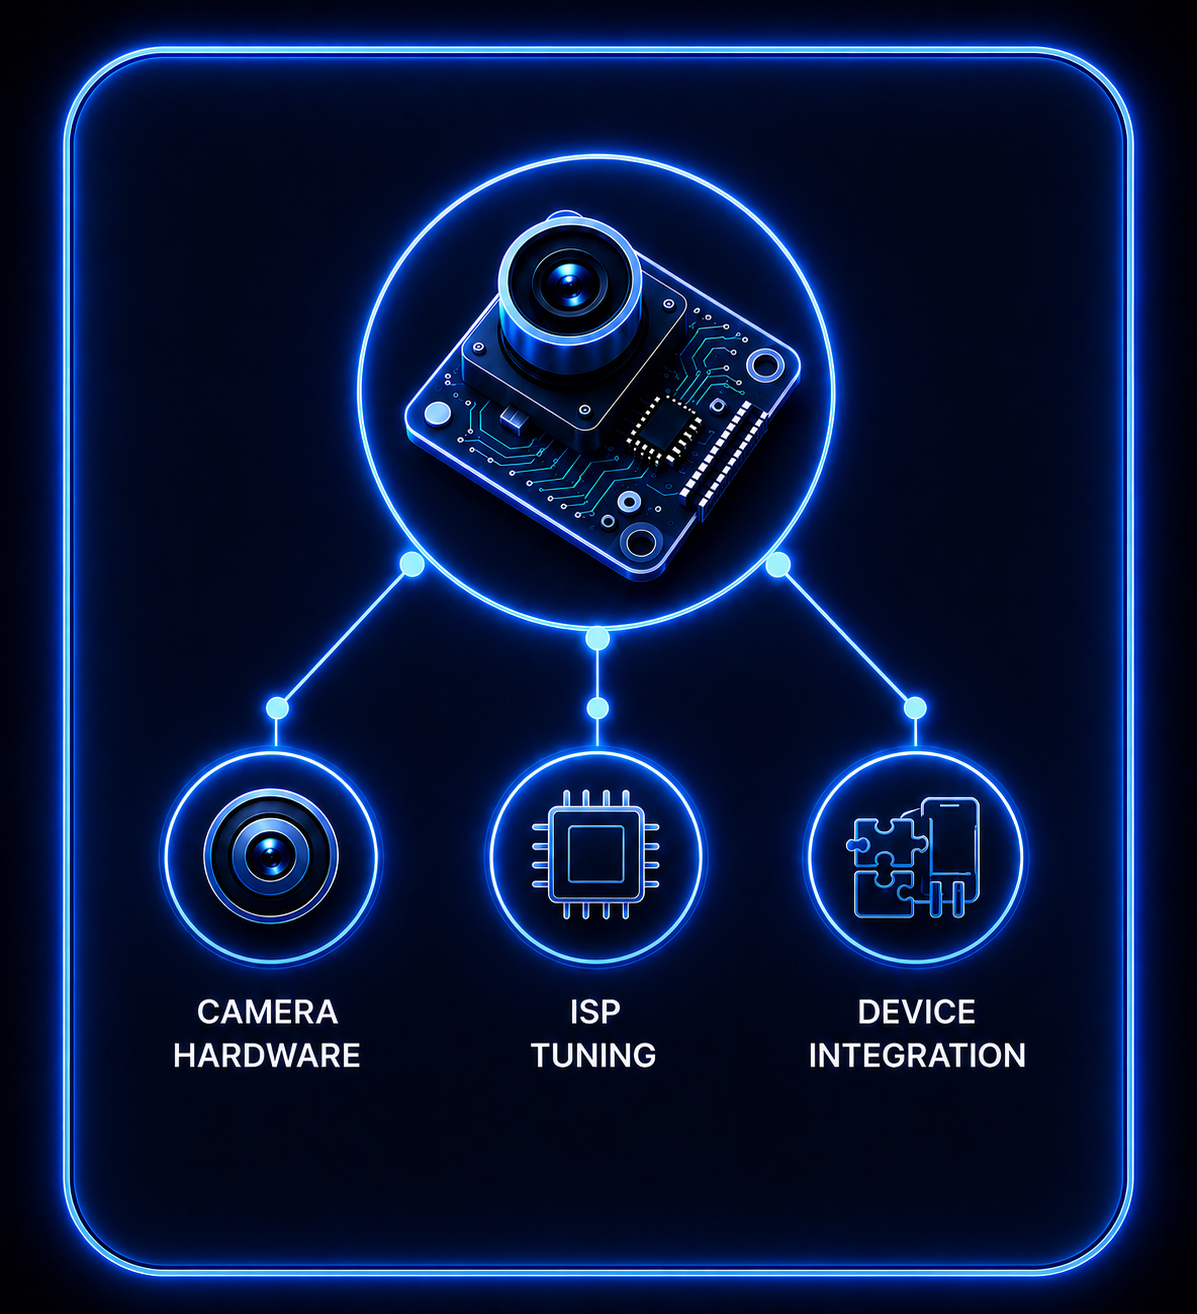
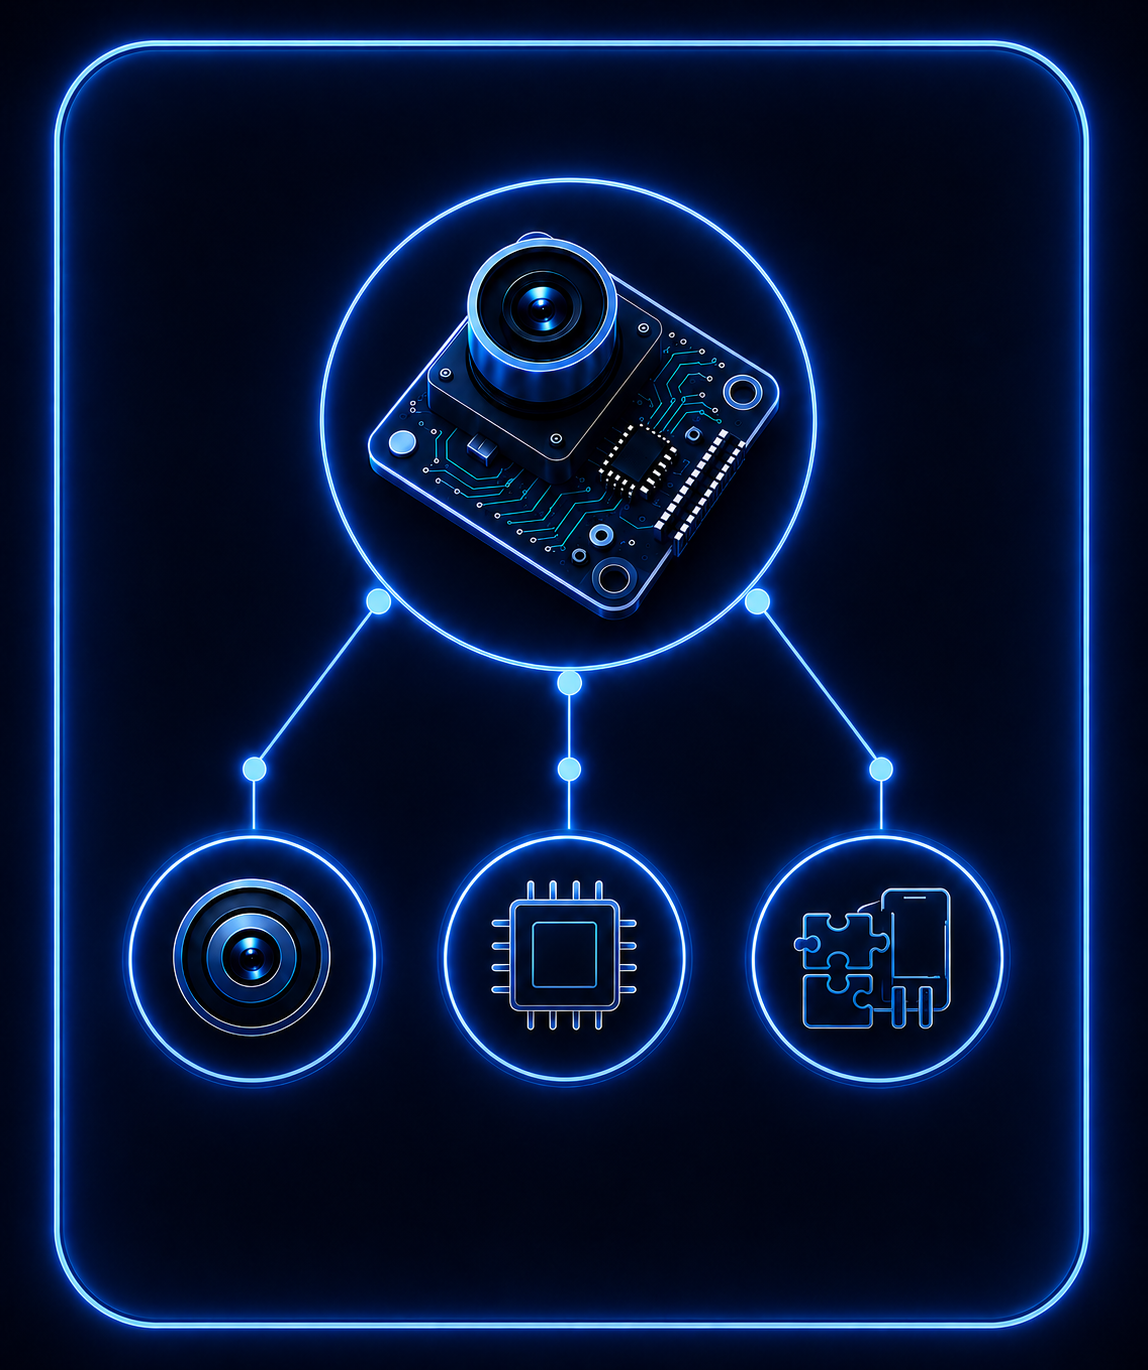
merged imedghardware into product page

Changed region(s): [[0.0305, 0.0, 0.9756, 0.9985], [0.2744, 0.468, 0.3049, 0.4992]]

diff --git a/src/components/imedge/ImedgeCapabilitiesSection.tsx b/src/components/imedge/ImedgeCapabilitiesSection.tsx
@@ -4,7 +4,7 @@ import { IMEDGE_CAPABILITIES } from "./imedgeData";
 import imedgeHardwareImg from "../../assets/images/Imedgehardware1.svg";
 import styles from "./imedgeCapabilitiesSection.module.scss";
 
-const ImedgeCapabilitiesSection = () => {
+const ImedgeCapabilitiesSection = ({ embedded = false }: { embedded?: boolean }) => {
   const copyRef = useRef<HTMLDivElement>(null);
   const mediaRef = useRef<HTMLDivElement>(null);
 
@@ -18,28 +18,30 @@ const ImedgeCapabilitiesSection = () => {
 
   return (
     <section
-      className={styles.section}
+      className={`${styles.section} ${embedded ? styles.sectionEmbedded : ""}`}
       aria-label="Imedge hardware capabilities"
     >
       <div className={styles.inner}>
         <div className={styles.split}>
           <div className={styles.content}>
-            <header className={styles.header}>
-              <span className={styles.kicker}>Hardware platform</span>
-              <h2 className={styles.title}>
-                Real-time AI vision hardware for the edge
-              </h2>
-              <p className={styles.lead}>
-                The fastest and most reliable way to realise your Edge AI Vision
-                application lies in building a system where camera design and
-                calibration. AI model tuning for Edge Processor and Intelligence
-                layer are vertically integrated. Imedge™ platform accomplishes
-                this goal by integrating high-performance computer vision
-                directly to the source of data — enabling instant insights,
-                uncompromising privacy, and split-second decision-making without
-                cloud latency.
-              </p>
-            </header>
+            {!embedded && (
+              <header className={styles.header}>
+                <span className={styles.kicker}>Hardware platform</span>
+                <h2 className={styles.title}>
+                  Real-time AI vision hardware for the edge
+                </h2>
+                <p className={styles.lead}>
+                  The fastest and most reliable way to realise your Edge AI Vision
+                  application lies in building a system where camera design and
+                  calibration. AI model tuning for Edge Processor and Intelligence
+                  layer are vertically integrated. Imedge™ platform accomplishes
+                  this goal by integrating high-performance computer vision
+                  directly to the source of data — enabling instant insights,
+                  uncompromising privacy, and split-second decision-making without
+                  cloud latency.
+                </p>
+              </header>
+            )}
 
             <div ref={copyRef} className={styles.capabilities}>
               {IMEDGE_CAPABILITIES.map((item) => (

diff --git a/src/components/imedge/ImedgeSpecsSection.tsx b/src/components/imedge/ImedgeSpecsSection.tsx
@@ -3,24 +3,30 @@ import { useScrollReveal } from "../../hooks/useScrollReveal";
 import { IMEDGE_SPECS } from "./imedgeData";
 import styles from "./imedgeSpecsSection.module.scss";
 
-const ImedgeSpecsSection = () => {
+const ImedgeSpecsSection = ({ embedded = false }: { embedded?: boolean }) => {
   const sectionRef = useRef<HTMLElement>(null);
   useScrollReveal(sectionRef, { variant: "fadeUp", y: 24 });
 
   return (
     <section
       ref={sectionRef}
-      className={styles.section}
+      className={`${styles.section} ${embedded ? styles.sectionEmbedded : ""}`}
       aria-label="Imedge reference platform specifications"
     >
       <div className={styles.inner}>
         <header className={styles.header}>
-          <span className={styles.kicker}>Specifications</span>
-          <h2 className={styles.title}>Reference platform overview</h2>
-          <p className={styles.lead}>
-            A production-ready edge vision reference built for automotive-grade
-            reliability in two-wheeler and industrial environments.
-          </p>
+          {!embedded && <span className={styles.kicker}>Specifications</span>}
+          {embedded ? (
+            <h3 className={styles.title}>Reference platform overview</h3>
+          ) : (
+            <h2 className={styles.title}>Reference platform overview</h2>
+          )}
+          {!embedded && (
+            <p className={styles.lead}>
+              A production-ready edge vision reference built for automotive-grade
+              reliability in two-wheeler and industrial environments.
+            </p>
+          )}
         </header>
 
         <div className={styles.table}>

diff --git a/src/components/product/ImedgeProductSection.tsx b/src/components/product/ImedgeProductSection.tsx
@@ -1,0 +1,41 @@
+import { useRef } from "react";
+import { useScrollReveal } from "../../hooks/useScrollReveal";
+import ImedgeCapabilitiesSection from "../imedge/ImedgeCapabilitiesSection";
+import ImedgeSpecsSection from "../imedge/ImedgeSpecsSection";
+import { IMEDGE_INTRO } from "../imedge/imedgeData";
+import styles from "./productLineSection.module.scss";
+
+type ImedgeProductSectionProps = {
+  index: number;
+};
+
+const ImedgeProductSection = ({ index }: ImedgeProductSectionProps) => {
+  const sectionRef = useRef<HTMLElement>(null);
+
+  useScrollReveal(sectionRef, { variant: "fadeUp", y: 24, delay: index * 0.05 });
+
+  return (
+    <section
+      ref={sectionRef}
+      id="imedge"
+      className={styles.section}
+      aria-label="Imedge hardware platform"
+    >
+      <div className={styles.inner}>
+        <div className={styles.header}>
+          <div className={styles.meta}>
+            <span className={styles.index}>{String(index + 1).padStart(2, "0")}</span>
+          </div>
+          <h2 className={styles.name}>Imedge® Hardware Platform</h2>
+          <p className={styles.tagline}>{IMEDGE_INTRO.tagline}</p>
+          <p className={styles.description}>{IMEDGE_INTRO.description}</p>
+        </div>
+
+        <ImedgeCapabilitiesSection embedded />
+        <ImedgeSpecsSection embedded />
+      </div>
+    </section>
+  );
+};
+
+export default ImedgeProductSection;

diff --git a/src/components/product/productData.ts b/src/components/product/productData.ts
@@ -6,7 +6,7 @@ import detectionImg from "../../assets/images/forwardcollision.png";
 import detection1Img from "../../assets/images/detection1.png";
 import detection2Img from "../../assets/images/detection2.png";
 import heroImg from "../../assets/images/product.png";
-import arasDemoVideo from "../../assets/videos/aras.mov";
+import dmsDemoVideo from "../../assets/videos/aras.mov";
 
 export const PRODUCT_SAFETY_CARDS = [
   {
@@ -165,7 +165,7 @@ export const PRODUCT_LINES: ProductLine[] = [
         image: detectionImg,
         imageAlt:
           "On-road ARAS perception demo with real-time detection overlays",
-        video: arasDemoVideo,
+        href: "/videos",
       },
       {
         id: "helmet-detection",
@@ -189,7 +189,7 @@ export const PRODUCT_LINES: ProductLine[] = [
         status: "available",
         image: detection1Img,
         imageAlt: "Driver monitoring demo with captured video",
-        href: "/videos",
+        video: dmsDemoVideo,
       },
       {
         id: "occupant-dms",

diff --git a/src/components/product/ProductHeroSection.tsx b/src/components/product/ProductHeroSection.tsx
@@ -55,14 +55,12 @@ const ProductHeroSection = () => {
       <div className={styles.overlay} aria-hidden="true" />
 
       <div className={styles.inner}>
-        <div className={styles.badge}>Perceiva™ ARAS Platform</div>
-        <h1 className={styles.heading}>
-          Advanced AI technology for safer, smarter riding.
-        </h1>
+        <div className={styles.badge}>Product</div>
+        <h1 className={styles.heading}>Edge-native AI for smarter system</h1>
         <p className={styles.subtitle}>
           {/* Enabling OEMs and cluster makers to unlock all levels of two-wheeler rider assistance at
           scale. */}
-          Edge-native AI for smarter system through sensor fusion
+          Through Sensor Fusion
         </p>
         <a className={styles.cta} href="/contact">
           <span>Schedule a demo</span>

diff --git a/src/pages/product/Product.tsx b/src/pages/product/Product.tsx
@@ -6,6 +6,7 @@ import ProductLineSection from "../../components/product/ProductLineSection";
 // import ProductFeatureShowcase from "../../components/product/ProductFeatureShowcase";
 // import ProductDeploymentSection from "../../components/product/ProductDeploymentSection";
 import ProductCtaSection from "../../components/product/ProductCtaSection";
+import ImedgeProductSection from "../../components/product/ImedgeProductSection";
 import { useHashScroll } from "../../hooks/useHashScroll";
 import {
   PRODUCT_LINES,
@@ -22,6 +23,8 @@ const Product = () => {
       {PRODUCT_LINES.map((line, index) => (
         <ProductLineSection key={line.id} line={line} index={index} />
       ))}
+
+      <ImedgeProductSection index={PRODUCT_LINES.length} />
 
       {/* <ProductIntroSection /> */}
       {/* <ProductCapabilitiesSection /> */}

diff --git a/src/pages/product/imedge/Imedge.tsx b/src/pages/product/imedge/Imedge.tsx
@@ -1,17 +1,7 @@
-import ImedgeCapabilitiesSection from "../../../components/imedge/ImedgeCapabilitiesSection";
-import ImedgeCtaSection from "../../../components/imedge/ImedgeCtaSection";
-import ImedgeHeroSection from "../../../components/imedge/ImedgeHeroSection";
-import ImedgeSpecsSection from "../../../components/imedge/ImedgeSpecsSection";
+import { Navigate } from "react-router-dom";
 
 const Imedge = () => {
-  return (
-    <main>
-      <ImedgeHeroSection />
-      <ImedgeCapabilitiesSection />
-      <ImedgeSpecsSection />
-      <ImedgeCtaSection />
-    </main>
-  );
+  return <Navigate to="/product#imedge" replace />;
 };
 
 export default Imedge;

diff --git a/src/components/technology/technologyData.ts b/src/components/technology/technologyData.ts
@@ -150,7 +150,7 @@ export const TECH_STACK_ROWS = [
     title: "Imedge® Hardware",
     description:
       "A compact, weather-sealed device housing the Ambarella CV25 vision processor, 5MP camera module, and custom optics.\nPurpose-built for vibration-heavy two-wheeler environments where reliability is non-negotiable.",
-    href: "/product/imedge",
+    href: "/product#imedge",
     image: imedgeHardware,
     imageAlt: "Imedge hardware PCB with Ambarella CV25 vision processor",
     theme: "light" as const,

diff --git a/src/components/imedge/imedgeSpecsSection.module.scss b/src/components/imedge/imedgeSpecsSection.module.scss
@@ -79,6 +79,27 @@
   color: var(--color-text);
 }
 
+.sectionEmbedded {
+  background: transparent;
+  border-bottom: none;
+}
+
+.sectionEmbedded .inner {
+  padding: clamp(40px, 5vw, 56px) 0 0;
+}
+
+.sectionEmbedded .header {
+  margin-bottom: clamp(20px, 2.5vw, 28px);
+}
+
+.sectionEmbedded .title {
+  margin: 0;
+  font-size: clamp(18px, 1.8vw, 22px);
+  font-weight: 600;
+  line-height: 1.25;
+  letter-spacing: -0.02em;
+}
+
 @media (max-width: 960px) {
   .row {
     grid-template-columns: 1fr;

diff --git a/src/components/imedge/imedgeCapabilitiesSection.module.scss b/src/components/imedge/imedgeCapabilitiesSection.module.scss
@@ -91,6 +91,23 @@
   border-radius: 12px;
 }
 
+.sectionEmbedded {
+  background: transparent;
+  border-bottom: none;
+}
+
+.sectionEmbedded .inner {
+  padding: 0;
+}
+
+.sectionEmbedded .header {
+  margin-bottom: clamp(20px, 2.5vw, 28px);
+}
+
+.sectionEmbedded .capabilities {
+  margin-top: 0;
+}
+
 @media (max-width: 960px) {
   .split {
     flex-direction: column;

diff --git a/src/components/layout/footer/Footer.tsx b/src/components/layout/footer/Footer.tsx
@@ -42,7 +42,7 @@ const Footer = () => {
           title="TECHNOLOGY"
           links={[
             { label: "Perceiva™", href: "/technology" },
-            { label: "IMedge® Hardware", href: "/product/imedge" },
+            { label: "IMedge® Hardware", href: "/product#imedge" },
 
             // { label: "Safety Features", href: "/safety" },
           ]}

diff --git a/src/components/layout/navbar/navConfig.ts b/src/components/layout/navbar/navConfig.ts
@@ -58,7 +58,7 @@ export const NAV_MEGA_MENUS: NavMegaMenuConfig[] = [
           title: "Imedge® Hardware Platform",
           description:
             "Help you build the right camera hardware and ISP for your application",
-          href: "/product/imedge",
+          href: "/product#imedge",
         },
       ],
     ],
